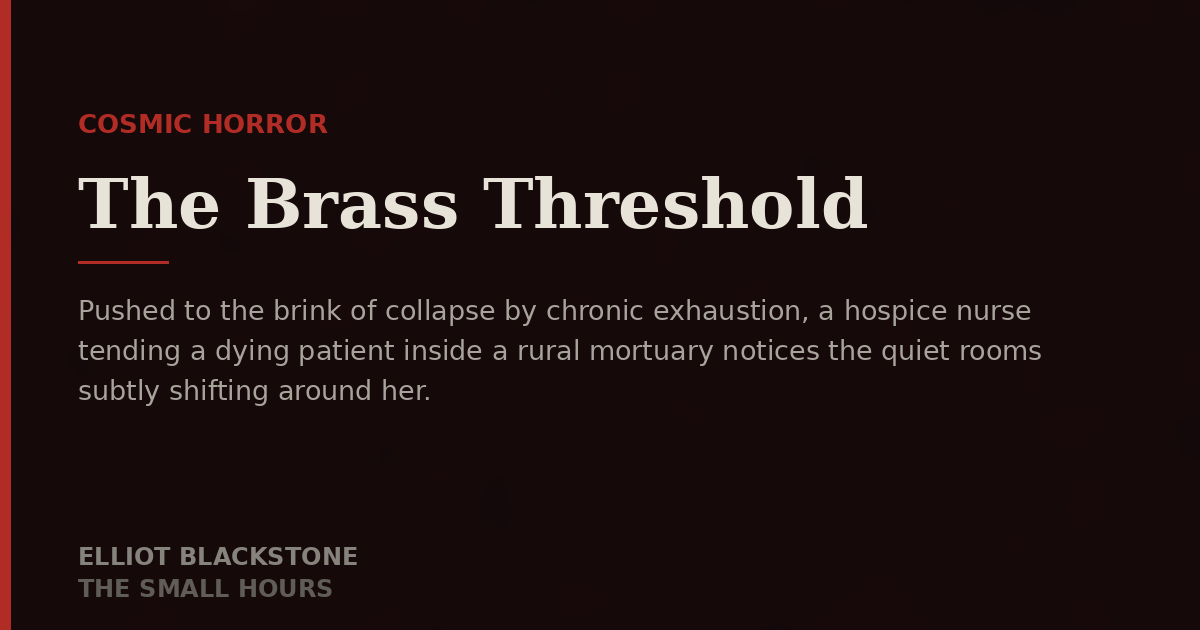
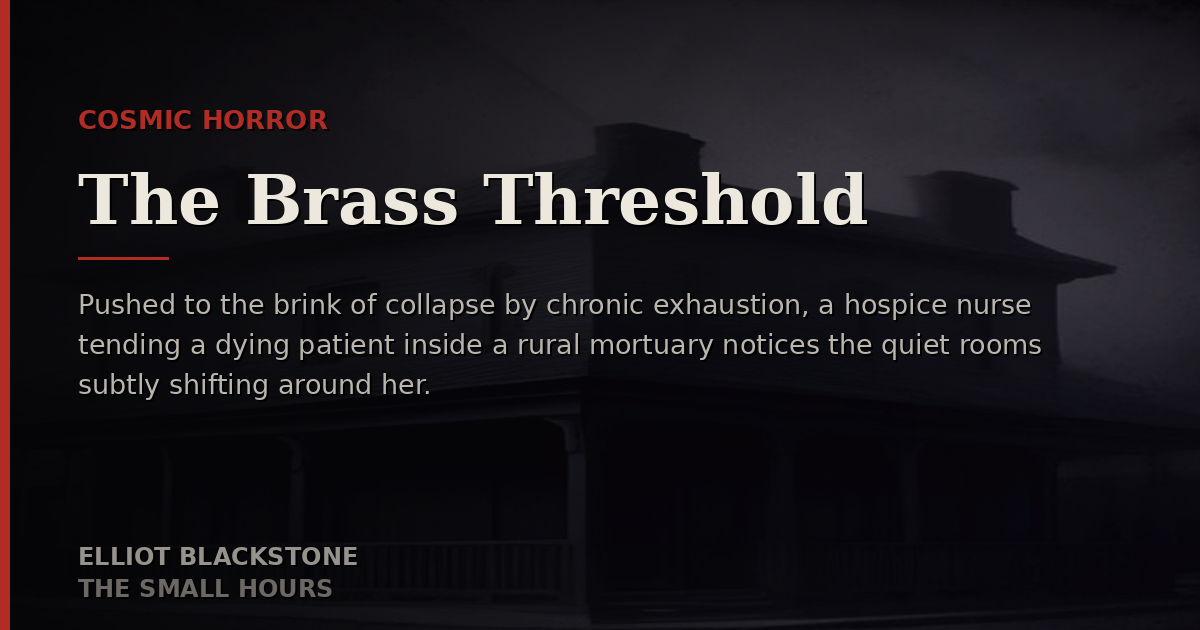
Generate cover art for each daily story
Every story now gets its own illustration, and the story page opens on it
as a banner the way the anthology pages do. The share card is built from
the same art rather than being flat texture, and the series index shows
the art as each card's thumbnail.

Art is generated from the day's seed ingredients and graded to one fixed
palette, so a year of stories still reads as a single series. Providers are
tried in order and the first that works wins: Pollinations (free, no key),
then Gemini (image models are limit:0 on the free tier, so this only fires
if the key's project has billing), then a procedural PIL fallback that
cannot fail. A night always gets a card.

diff --git a/daily.html b/daily.html
@@ -83,7 +83,7 @@
                 <div class="stories-grid-full">
                     <article class="story-card-large">
                         <div class="story-image">
-                            <img src="images/og/daily-the-brass-threshold.png" alt="The Brass Threshold preview artwork" width="1200" height="630" decoding="async" loading="lazy" class="story-thumb">
+                            <img src="images/daily/the-brass-threshold.png" alt="The Brass Threshold preview artwork" width="1600" height="900" decoding="async" loading="lazy" class="story-thumb">
                             <div class="story-overlay"></div>
                         </div>
                         <div class="story-content">
@@ -99,7 +99,7 @@
                     </article>
                     <article class="story-card-large">
                         <div class="story-image">
-                            <img src="images/og/daily-cable-landing-station.png" alt="Iron Key D-9 preview artwork" width="1200" height="630" decoding="async" loading="lazy" class="story-thumb">
+                            <img src="images/daily/cable-landing-station.png" alt="Iron Key D-9 preview artwork" width="1600" height="900" decoding="async" loading="lazy" class="story-thumb">
                             <div class="story-overlay"></div>
                         </div>
                         <div class="story-content">

diff --git a/daily/cable-landing-station.html b/daily/cable-landing-station.html
@@ -92,13 +92,16 @@
     </nav>
 
     <main>
-        <section class="page-header">
-            <div class="container">
-                <span class="story-category">Occult Horror</span>
-                <h1>Iron Key D-9</h1>
-                <p class="page-subtitle">September 13, 2026 · 1983 words</p>
-            </div>
-        </section>
+    <section class="story-banner">
+        <img class="story-banner__img" src="../images/daily/cable-landing-station.png" alt="Iron Key D-9 artwork" width="1600" height="900" decoding="async">
+        <div class="story-banner__overlay"></div>
+        <div class="container story-banner__content">
+            <span class="story-category">Occult Horror</span>
+            <h1>Iron Key D-9</h1>
+            <p class="page-subtitle">September 13, 2026 · 1983 words</p>
+        </div>
+    </section>
+
 
         <article class="story-page">
             <div class="container">
@@ -362,7 +365,7 @@
 
                 <div class="story-navigation">
                     <a href="../daily.html" class="nav-link prev">← The Small Hours</a>
-                    <a href="the-brass-threshold.html" class="nav-link next">Next Story →</a>
+                    <a href="../daily.html" class="nav-link next">All The Small Hours →</a>
                 </div>
             </div>
         </article>

diff --git a/daily/the-brass-threshold.html b/daily/the-brass-threshold.html
@@ -92,13 +92,16 @@
     </nav>
 
     <main>
-        <section class="page-header">
-            <div class="container">
-                <span class="story-category">Cosmic Horror</span>
-                <h1>The Brass Threshold</h1>
-                <p class="page-subtitle">September 14, 2026 · 3237 words</p>
-            </div>
-        </section>
+    <section class="story-banner">
+        <img class="story-banner__img" src="../images/daily/the-brass-threshold.png" alt="The Brass Threshold artwork" width="1600" height="900" decoding="async">
+        <div class="story-banner__overlay"></div>
+        <div class="container story-banner__content">
+            <span class="story-category">Cosmic Horror</span>
+            <h1>The Brass Threshold</h1>
+            <p class="page-subtitle">September 14, 2026 · 3237 words</p>
+        </div>
+    </section>
+
 
         <article class="story-page">
             <div class="container">
